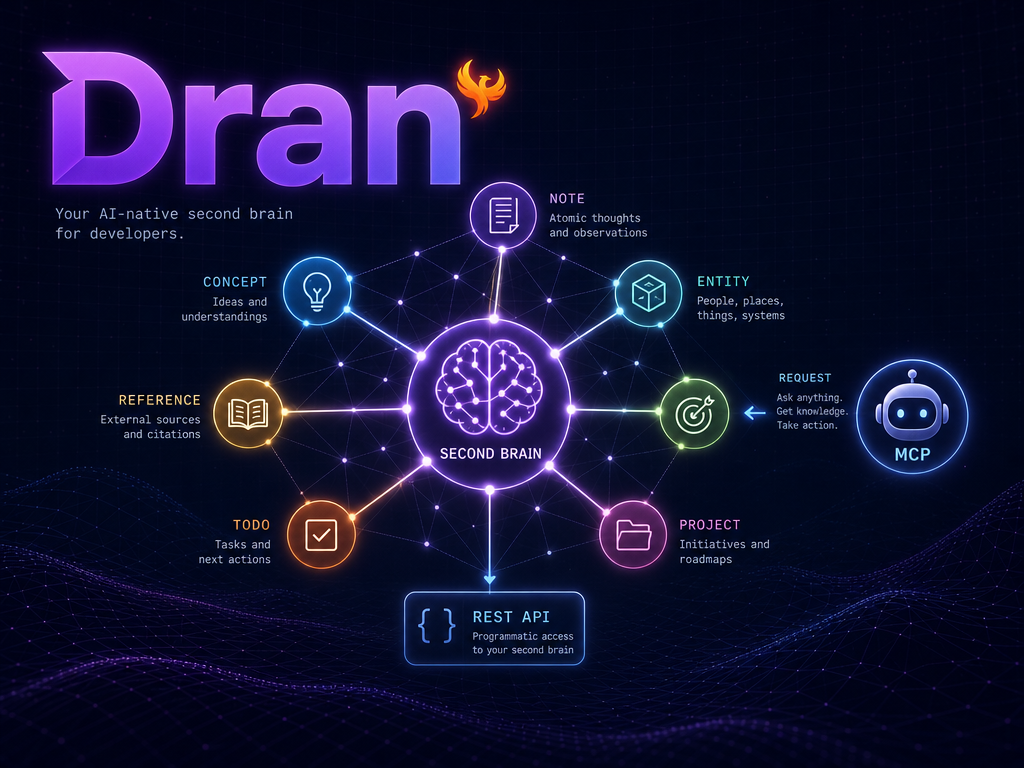
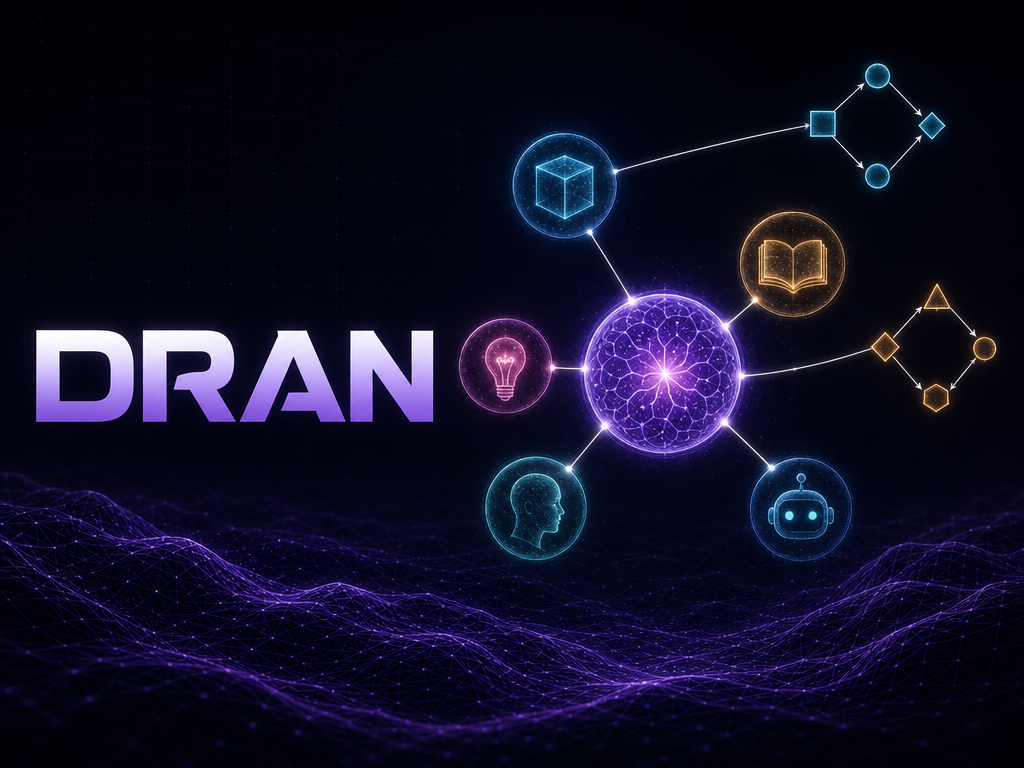
docs(readme): recrear README y header — knowledge base + memory para agentes con ledger
El README describía el Dran de hace meses. Recreado contra el código real:
posicionamiento nuevo (knowledge base & memory for AI agents, tres planos:
conocimiento/memoria/ledger), 4 page types (goals/collections/reports son
entidades propias), 13 relation types, 35 MCP tools con write-gate de 22,
workflows como execution ledger (step contracts, sessions/runs), memoria
multi-agente (/api/memory + plugin Hermes), rutas actuales (/admin +
/:workspace_slug/*), 6 jobs, roles de instancia/workspace, suite de 7
skills y la relación con Riel explicitada (Dran declara qué verificar,
los runs son la evidencia). Header nuevo alineado al posicionamiento
(grafo neural + agentes + mini-DAGs, sin types muertos).

Review adversarial: APPROVE sin hallazgos. Wave doc-only — sin gates mix.

diff --git a/README.md b/README.md
@@ -2,51 +2,121 @@
 
 # 🧠 Dran
 
-### Personal Second Brain
+### Knowledge base & memory for AI agents — with a built-in execution ledger
 
-A personal second-brain app built with **Phoenix 1.8 + LiveView**. Your knowledge lives as **typed pages** connected by **typed relations**, forming a queryable knowledge graph — editable in the browser and fully operable by AI agents through **MCP** and a **REST API**.
+A personal/shared second brain built with **Phoenix 1.8 + LiveView**, designed to be operated by humans **and** AI agents. Your knowledge lives as **typed pages** connected by **typed relations**, forming a queryable knowledge graph. Agents read and write it through **MCP** and a **REST API**, share a **trust-weighted memory**, and leave **verifiable execution evidence** in workflow runs — the ledger.
 
 [![License: MIT](https://img.shields.io/badge/license-MIT-blue.svg)](LICENSE)
-[![Elixir](https://img.shields.io/badge/Elixir-1.18+-4B275F?logo=elixir&logoColor=white)](https://elixir-lang.org)
-[![Phoenix](https://img.shields.io/badge/Phoenix-LiveView-FD4F00?logo=phoenixframework&logoColor=white)](https://www.phoenixframework.org)
+[![Elixir](https://img.shields.io/badge/Elixir-1.15+-4B275F?logo=elixir&logoColor=white)](https://elixir-lang.org)
+[![Phoenix](https://img.shields.io/badge/Phoenix-1.8-LiveView-FD4F00?logo=phoenixframework&logoColor=white)](https://www.phoenixframework.org)
+[![PostgreSQL](https://img.shields.io/badge/PostgreSQL-pgvector-336791?logo=postgresql&logoColor=white)](https://www.postgresql.org)
 [![MCP](https://img.shields.io/badge/MCP-Server-5B8DEF?logo=modelcontextprotocol&logoColor=white)](https://modelcontextprotocol.io)
 
 ![Dran](docs/dran-header.png)
 
 </div>
 
-## Features
+## The three planes
 
-### Knowledge
-- **10 page types** — `note`, `concept`, `entity`, `reference`, `project`, `goal`, `plan`, `todo`, `query`, plus `report` (system run logs) — each with its own list/new/detail UI (`/panel/notes`, `/panel/concepts`, …)
-- **TipTap markdown editor** — WYSIWYG with tables, code blocks, mermaid diagrams, and `![[slug]]` page embeds; pages render read-only by default, *Edit* opens the editor
-- **Relations** — directed and typed (`related`, `part_of`, `supersedes`, `contradicts`, `embeds`, `semantic`, `mentions`); link pages freely — no rigid hierarchy, orphans are fine
-- **Custom props** — `meta.props` key-value bag; five keys (`role`, `tier`, `location`, `language`, `framework`) auto-materialize into graph edges
-- **Version history** — every edit is versioned with diff view on the page detail
+Dran is not a note app with an API bolted on. It is a single system with three interlocking planes:
 
-### Views
-- **Wiki at the root** (`/`, `/:context_slug`, …) — read-only knowledge browser per wiki-enabled context; the first thing a logged-in user sees. Sidebar with search, type index, pinned pages, collections, kanban, graph, and a context-aware link to the admin panel (visible to admins and editors). All data administration lives under **`/panel`**
-- **Dashboard** (`/panel`) — context overview; accessible to admins and editors
-- **Task board** (`/:workspace_slug/tasks`) — first-class tasks with columns `backlog → this_week → today → in_progress → done → cancelled`, native drag & drop between columns, quick-add per column, due dates, priority badges, recurrence. Optional `part_of` links to goals and project/plan notes (via relations). Legacy `/kanban` redirects here
-- **3D knowledge graph** (`/panel/graph`, `/panel/graph/:slug`, `/:context_slug/graph` in wiki) — force-directed 3D; hover highlights a node and its neighbors, click navigates (context-aware URLs in wiki via `data-base-path`)
-- **Clusters** (`/panel/clusters`, `/panel/clusters/:id`) — graph clusters (clusters of related pages) detected via modularity; each cluster gets an LLM-generated summary. Re-generated nightly or on demand
-- **Hybrid search** (`/panel/search`) — full-text, fuzzy, semantic, or hybrid fusion
-- **Smart Collections** (`/panel/collections`) — saved live queries rendered as pages
-- **Activity feed** (`/panel/activity`), **Journey** (`/panel/journey`), **Tags** (`/panel/tags/:tag`), **Docs** (`/panel/docs`)
-- **Multi-context** — switch brains from the sidebar; per-context page-type toggles (Settings → Contexts)
-- **Pinned pages** — toggle pin on any page type; pinned pages surface in the wiki sidebar and context home
+| Plane | What it holds | Surface |
+| --- | --- | --- |
+| **Knowledge** | Typed pages + typed relations — the queryable graph | Wiki UI, MCP tools, REST |
+| **Memory** | Atomic, deduplicated, trust-weighted facts shared by every agent | REST `/api/memory`, Hermes plugin |
+| **Ledger** | Workflow runs: what an agent claimed, what was verified, when | MCP run lifecycle, `/:ws/workflows` |
 
-### Automation
-- **3 autonomous workers** — `curator` (duplicates/contested cleanup, daily cron), `link_gardener` (proposes relations for orphans, weekly cron + manual), `graph_rag` (GraphRAG search with citations, manual)
-- **5 scheduled jobs** — `curator_daily`, `pagerank_nightly`, `community_summaries_nightly`, `graph_maintenance_nightly`, `link_gardener_weekly`. Controlled from **Settings → Brain** — per-job toggles, "run now" buttons, and a `report` page per run
-- **Entity linker** — auto-creates entity pages from real-world names detected in bodies (people, companies, tools); noise-filtered (no file paths, modules, or generic terms) and toggleable from Settings → Brain
-- **Graph intelligence** — PageRank authority scoring, cluster detection with LLM summaries, graph maintenance sweeps; all scheduled nightly
+An agent that only reads pages is using a third of Dran. The full loop is: recall from memory → read/create knowledge → execute a workflow → close runs with verified claims → let the nightly workers curate the graph.
 
-### Integration & admin
-- **MCP server** — `POST /api/mcp`, Streamable HTTP (MCP spec 2025-03-26), 22 tools + 3 workers + 3 resources + 2 prompts. attribution (`owner`/`created_by`) is derived server-side from the key's actor — never client-settable. API keys with `write_access: false` are read-only — write tools (`dran_create_page`, `dran_update_page`, `dran_delete_page`, `dran_create_note`, `dran_update_note`, `dran_create_task`, `dran_update_task`, `dran_create_goal`, `dran_create_relation`, `dran_delete_relation`, `dran_rename_slug`, `dran_reaugment_page`, `dran_start_worker`) return `403`
-- **REST API** — token-protected CRUD for pages, relations, contexts, search, export (`/api/*`). Owner/created_by injected from auth identity on create. Write routes (`POST`, `PUT`, `DELETE`) require `write_access: true` on API keys — read routes (`GET`) are always allowed
-- **Multi-user auth** — first-run `/setup` admin, Google OAuth (invite/domain-restricted), per-user API tokens (Settings → Users). Three roles: **admin** (`is_admin`, full access + all contexts), **editor** (`is_editor`, panel + dashboard access, assigned contexts), regular user (wiki-only). Panel routes gated by `admin_or_editor` pipeline; wiki open to all logged-in users
-- **Settings panel** (admin) — users, contexts, API keys (with per-key `write_access` toggle — read-only by default), brain tuning, models, system, danger zone (`/panel/settings/:tab`)
+## Knowledge
+
+- **4 page types** — `note`, `entity`, `concept`, `reference` — each a full citizen (graph, journey, embeddings, MCP-create). Goals, collections and reports are first-class entities in their own tables, not page types
+- **TipTap markdown editor** — WYSIWYG with tables, code blocks, mermaid diagrams and `![[slug]]` page embeds; pages render read-only by default, *Edit* opens the editor
+- **13 relation types** — `related`, `part_of`, `supersedes`, `contradicts`, `embeds`, `semantic`, `mentions`, `works_in`, `has_tier`, `based_in`, `written_in`, `built_with`, `depends_on` — link pages freely, no rigid hierarchy, orphans are fine
+- **Custom props → graph edges** — five prop keys (`role`, `tier`, `location`, `language`, `framework`) auto-materialize into typed edges to entity/concept pages
+- **Version history** — every edit is versioned, with diff view on the page detail
+- **Machine-owned summaries** — the page `summary` is written only by MCP/API and the nightly job, never by hand
+
+## Workflows — the execution ledger
+
+- **Workflows are DAGs** — steps with `depends_on`, authored in a visual canvas editor or over the API
+- **Step = contract** — each step declares intent, pre-registered claims and gates: *what must be true when this step is done*. The contract is pure data; the server enforces readiness and cycle rules
+- **Sessions & runs** — `open session → claim run (start) → report progress (✓NN) → close with outcome`; retry re-opens a failed run. Passed gates render as checked nodes in the DAG
+- **Pending-run queue** — agents pull their next ready step via MCP (`dran_list_pending_runs`); row-level auth and locks keep two agents from claiming the same run
+- **Runs are evidence, not vibes** — a run closed without re-running its gates is a false checkpoint; the UI shows what was actually verified
+
+### Riel
+
+Dran is the **board**; Riel is the **discipline**. Riel (the agent-side execution protocol — ledger, briefs, delegation) runs locally in the agent; Dran declares **what to verify** (step contracts) and stores the **durable evidence** (runs). The `skills/dran-workflow-flow` skill executes the Riel cycle over Dran's MCP tools — Dran never imposes Riel, but its run ledger is designed to be the remote half of it. Runs are the only Riel ledger in Dran: memory and goal checklists are deliberately outside this loop.
+
+## Goals
+
+- **First-class entities** (own table, own UI at `/:ws/goals`) with measurable targets, archived state and linked workflows ("Workflows vinculados")
+- **Human-managed checklist** — the goal checklist is the owner's OKR, not agent scratch space; agents can add/toggle items over MCP but the plan of record is human
+- Goals link optionally to workflows via FK — progress rolls up from run outcomes
+
+## Memory — shared multi-agent recall
+
+- **Atomic facts per workspace** — exact, immutable content; no LLM augmentation rewrites a memory
+- **Content dedupe** — `add` is idempotent per workspace; duplicates return the existing row untouched
+- **Asymmetric trust** — helpful `+0.05`, unhelpful `−0.10`, clamped `[0,1]`; search multiplies relevance by trust so useful facts surface first
+- **Hybrid search** — full-text + embeddings over the shared store (`GET /api/memory/search`)
+- **Hermes plugin** (`hermes_plugin/dran/`) — auto-recall at turn start (background prefetch), `dran_memory_add/search/feedback` tools, and auto-capture on session end (facts extracted server-side; transcripts are never persisted). One API key per agent → `created_by` attribution is server-side; subagents get read-only memory
+- **Not in the MCP surface** — memory is REST + plugin only, by design
+
+## Views
+
+- **Wiki at the workspace root** (`/:workspace_slug`) — read-first knowledge browser: sidebar with search, type index, pinned pages, collections, clusters, graph
+- **Instance dashboard** (`/`) — workspaces + metrics for every logged-in user; admin at `/admin` (owner-only): users, workspaces, models, system, jobs, impersonation
+- **Workflows** (`/:ws/workflows`) — index/board with kind & status filters, DAG detail with run state
+- **Goals** (`/:ws/goals`), **Memory** (`/:ws/memory`), **Reports** (`/:ws/reports/:slug`)
+- **3D knowledge graph** (`/:ws/graph`) — force-directed; hover highlights neighbors, click navigates
+- **Clusters** (`/:ws/clusters`) — modularity-detected clusters with LLM-generated summaries (nightly or on demand)
+- **Hybrid search** (`/:ws/search`) — full-text, fuzzy, semantic or fused, with optional rerank
+- **Smart Collections** (`/:ws/collections`) — saved live queries rendered as pages
+- **Activity feed**, **Journey** timeline, **per-workspace settings** (page types, features)
+- **Multi-workspace** — switch brains from the sidebar; per-workspace visibility (`public`/`private`) and page-type toggles
+
+## Automation
+
+- **3 autonomous workers** — `curator` (duplicate/conflict detection via embeddings → report), `link_gardener` (proposes relations for orphan pages), `graph_rag` (GraphRAG Q&A with citations). Start over MCP (`dran_start_worker`) and poll the session
+- **6 scheduled jobs** (Quantum cron, toggleable + "run now" from the admin jobs panel): `curator_daily`, `pagerank_nightly`, `cluster_summaries_nightly`, `graph_maintenance_nightly`, `link_gardener_weekly`, `page_summaries_nightly` — each run writes a `report` page
+- **Entity linker** — auto-creates entity pages from real-world names detected in bodies (noise-filtered, toggleable)
+- **Graph intelligence** — PageRank authority scoring, cluster detection, maintenance sweeps
+
+## MCP server
+
+`POST /api/mcp` — Streamable HTTP (MCP spec 2025-03-26), token-authenticated.
+
+- **35 tools** — pages & notes CRUD, search (`full`/`fuzzy`/`semantic`/`hybrid`), links & stats, goals CRUD + checklist ops, workflows/sessions/runs lifecycle (`get_workflow`, `get_step_contract`, `open_workflow_session`, `list_pending_runs`, `start_run`, `report_run_progress`, `close_run`, `retry_run`), workers, `lint_brain`, `rename_slug`, `reaugment_page`
+- **22 write tools** are gated behind `write_access: true` on the API key — read-only keys get `403` on every one of them (enforced by a permission-matrix test: a new write tool without a matrix row fails the audit)
+- **3 resources** — `page://{ws}/{slug}`, `goal://{ws}/{slug}`, `home://{ws}/index`
+- **2 prompts** — `brainstorm`, `goal_review`
+- **Attribution is server-side** — `owner`/`created_by` and run claims derive from the key's actor; never client-settable
+
+## REST API
+
+Token-protected CRUD under `/api/*` (kebab-case routes, tables prefixed by domain):
+
+- **Read** — workspaces, knowledge-pages (+ links, graph), search (full/fuzzy/semantic), goals, index, log, lint, memory (list/search), workflow sessions, pending runs, export
+- **Write** (requires `write_access: true`) — workspaces/pages/relations CRUD, workflow session + run lifecycle (`open`, `start`, `progress`, `close`, `retry`), memory (`create`, `feedback`, `ingest`, `delete`)
+- Owner/created_by injected from the auth identity on every create
+
+## Security
+
+- **First-run `/setup`** creates the owner account; Google OAuth optional (invite/domain-restricted)
+- **Instance + workspace roles** — `is_owner` (instance admin at `/admin`), per-workspace `owner`/`admin`/`editor`/`viewer`; workspace routes gated by members ∪ public ∪ owner; settings by workspace admin
+- **Per-user API keys** — scoped to the key creator's workspaces, `write_access` toggle (read-only by default), role inherited from creator
+- **Row-level auth** on executions (LiveView + API), IDOR-hardened task/relation paths, `FOR UPDATE` locks on run claim/close/reopen, UUID guards
+- **Audit tooling in precommit** — `deps.audit` + `sobelow --exit medium`
+
+## Agent skills suite
+
+`skills/` ships a 7-skill suite for Hermes (or any skill-loading agent) that encodes the operating flows above:
+
+`dran` (router) · `dran-knowledge-flow` · `dran-relations-flow` · `dran-goals-flow` · `dran-workflow-flow` (Riel loop) · `dran-workers-flow` · `dran-memory-flow`
+
+Shared rules across the suite: one key = one actor; a write is not done until a readback confirms the state; irreversible operations require explicit human confirmation.
 
 ## Installation
 
@@ -59,7 +129,7 @@ mix setup        # deps → DB create → migrations → assets → seed
 mix phx.server
 ```
 
-Open [localhost:4000](http://localhost:4000) — first run redirects to `/setup` to create the admin account.
+Open [localhost:4000](http://localhost:4000) — first run redirects to `/setup` to create the owner account.
 
 ## Configuration
 
@@ -71,7 +141,7 @@ All configuration is via environment variables — see [`.env.example`](.env.exa
 | `DATABASE_URL` | Ecto URL, e.g. `ecto://postgres:postgres@localhost/dran_dev` |
 | `PHX_HOST` / `PHX_PORT` / `PHX_SCHEME` | Public host/port/scheme for URL generation |
 | `DRAN_API_TOKEN` | Legacy admin bearer token for REST/MCP |
-| `DRAN_WORKSPACE_SLUG` / `DRAN_WORKSPACE_NAME` | Default context created on seed |
+| `DRAN_WORKSPACE_SLUG` / `DRAN_WORKSPACE_NAME` | Default workspace created on seed |
 | `GOOGLE_OAUTH_CLIENT_ID` / `GOOGLE_OAUTH_CLIENT_SECRET` | Optional — enables "Sign in with Google" |
 | `DRAN_INFERENCE_API_URL` / `DRAN_INFERENCE_API_KEY` | OpenAI-compatible inference endpoint (`/v1/embeddings`, `/v1/rerank`, `/v1/chat/completions`) — powers embeddings, summaries, workers, semantic search |
 | `SESSION_SIGNING_SALT` / `SESSION_ENCRYPTION_SALT` | Required in production (`mix phx.gen.secret 32`) |
@@ -79,24 +149,6 @@ All configuration is via environment variables — see [`.env.example`](.env.exa
 | `DISABLE_FORCE_SSL` | Set to `1` **at build time** when serving over plain HTTP (VPN tunnels) |
 
 Inference is optional: without it, Dran still works — you lose embeddings, semantic search, auto-summaries, and workers.
-
-## Page types
-
-| Type | Purpose |
-| --- | --- |
-| `note` | Thoughts, journal, ideas, meetings |
-| `concept` | Techniques, patterns, theories |
-| `entity` | People, companies, tools, places |
-| `reference` | External sources (articles, papers, videos) |
-| `project` | Initiatives grouping goals/plans/tasks |
-| `goal` | Objectives with measurable targets |
-| `plan` | Time-horizoned plans (weekly/quarterly/yearly) |
-| `query` | Questions with answers |
-| `report` | System-created worker run logs (detail view only, `/panel/reports/:slug`) |
-
-**Tasks** are NOT page types — they live in their own `tasks` table with
-kanban status, priority, due dates, recurrence and checklists, optionally
-linked to goals/pages via `part_of` relations.
 
 ## Production
 
@@ -111,12 +163,12 @@ A `Dockerfile` ships with the repo (Coolify-ready; `/app/bin/migrate` runs migra
 
 ## Tech stack
 
-Phoenix 1.8 + LiveView · PostgreSQL + pgvector · TipTap v3 · MDEx (comrak) · Tailwind v4 + daisyUI · Bandit · Quantum (cron) · Req · MCP 2025-03-26
+Phoenix 1.8 + LiveView · PostgreSQL + pgvector · TipTap v3 · MDEx (comrak) · Tailwind v4 + daisyUI · 3d-force-graph (three.js) · Bandit · Quantum (cron) · Req · MCP 2025-03-26
 
 ## Pre-commit
 
 ```bash
-mix precommit   # compile --warnings-as-errors → format → deps audit → sobelow → test
+mix precommit   # compile --warnings-as-errors → deps.unlock --unused → format → deps audit → sobelow → test
 ```
 
 ## License
